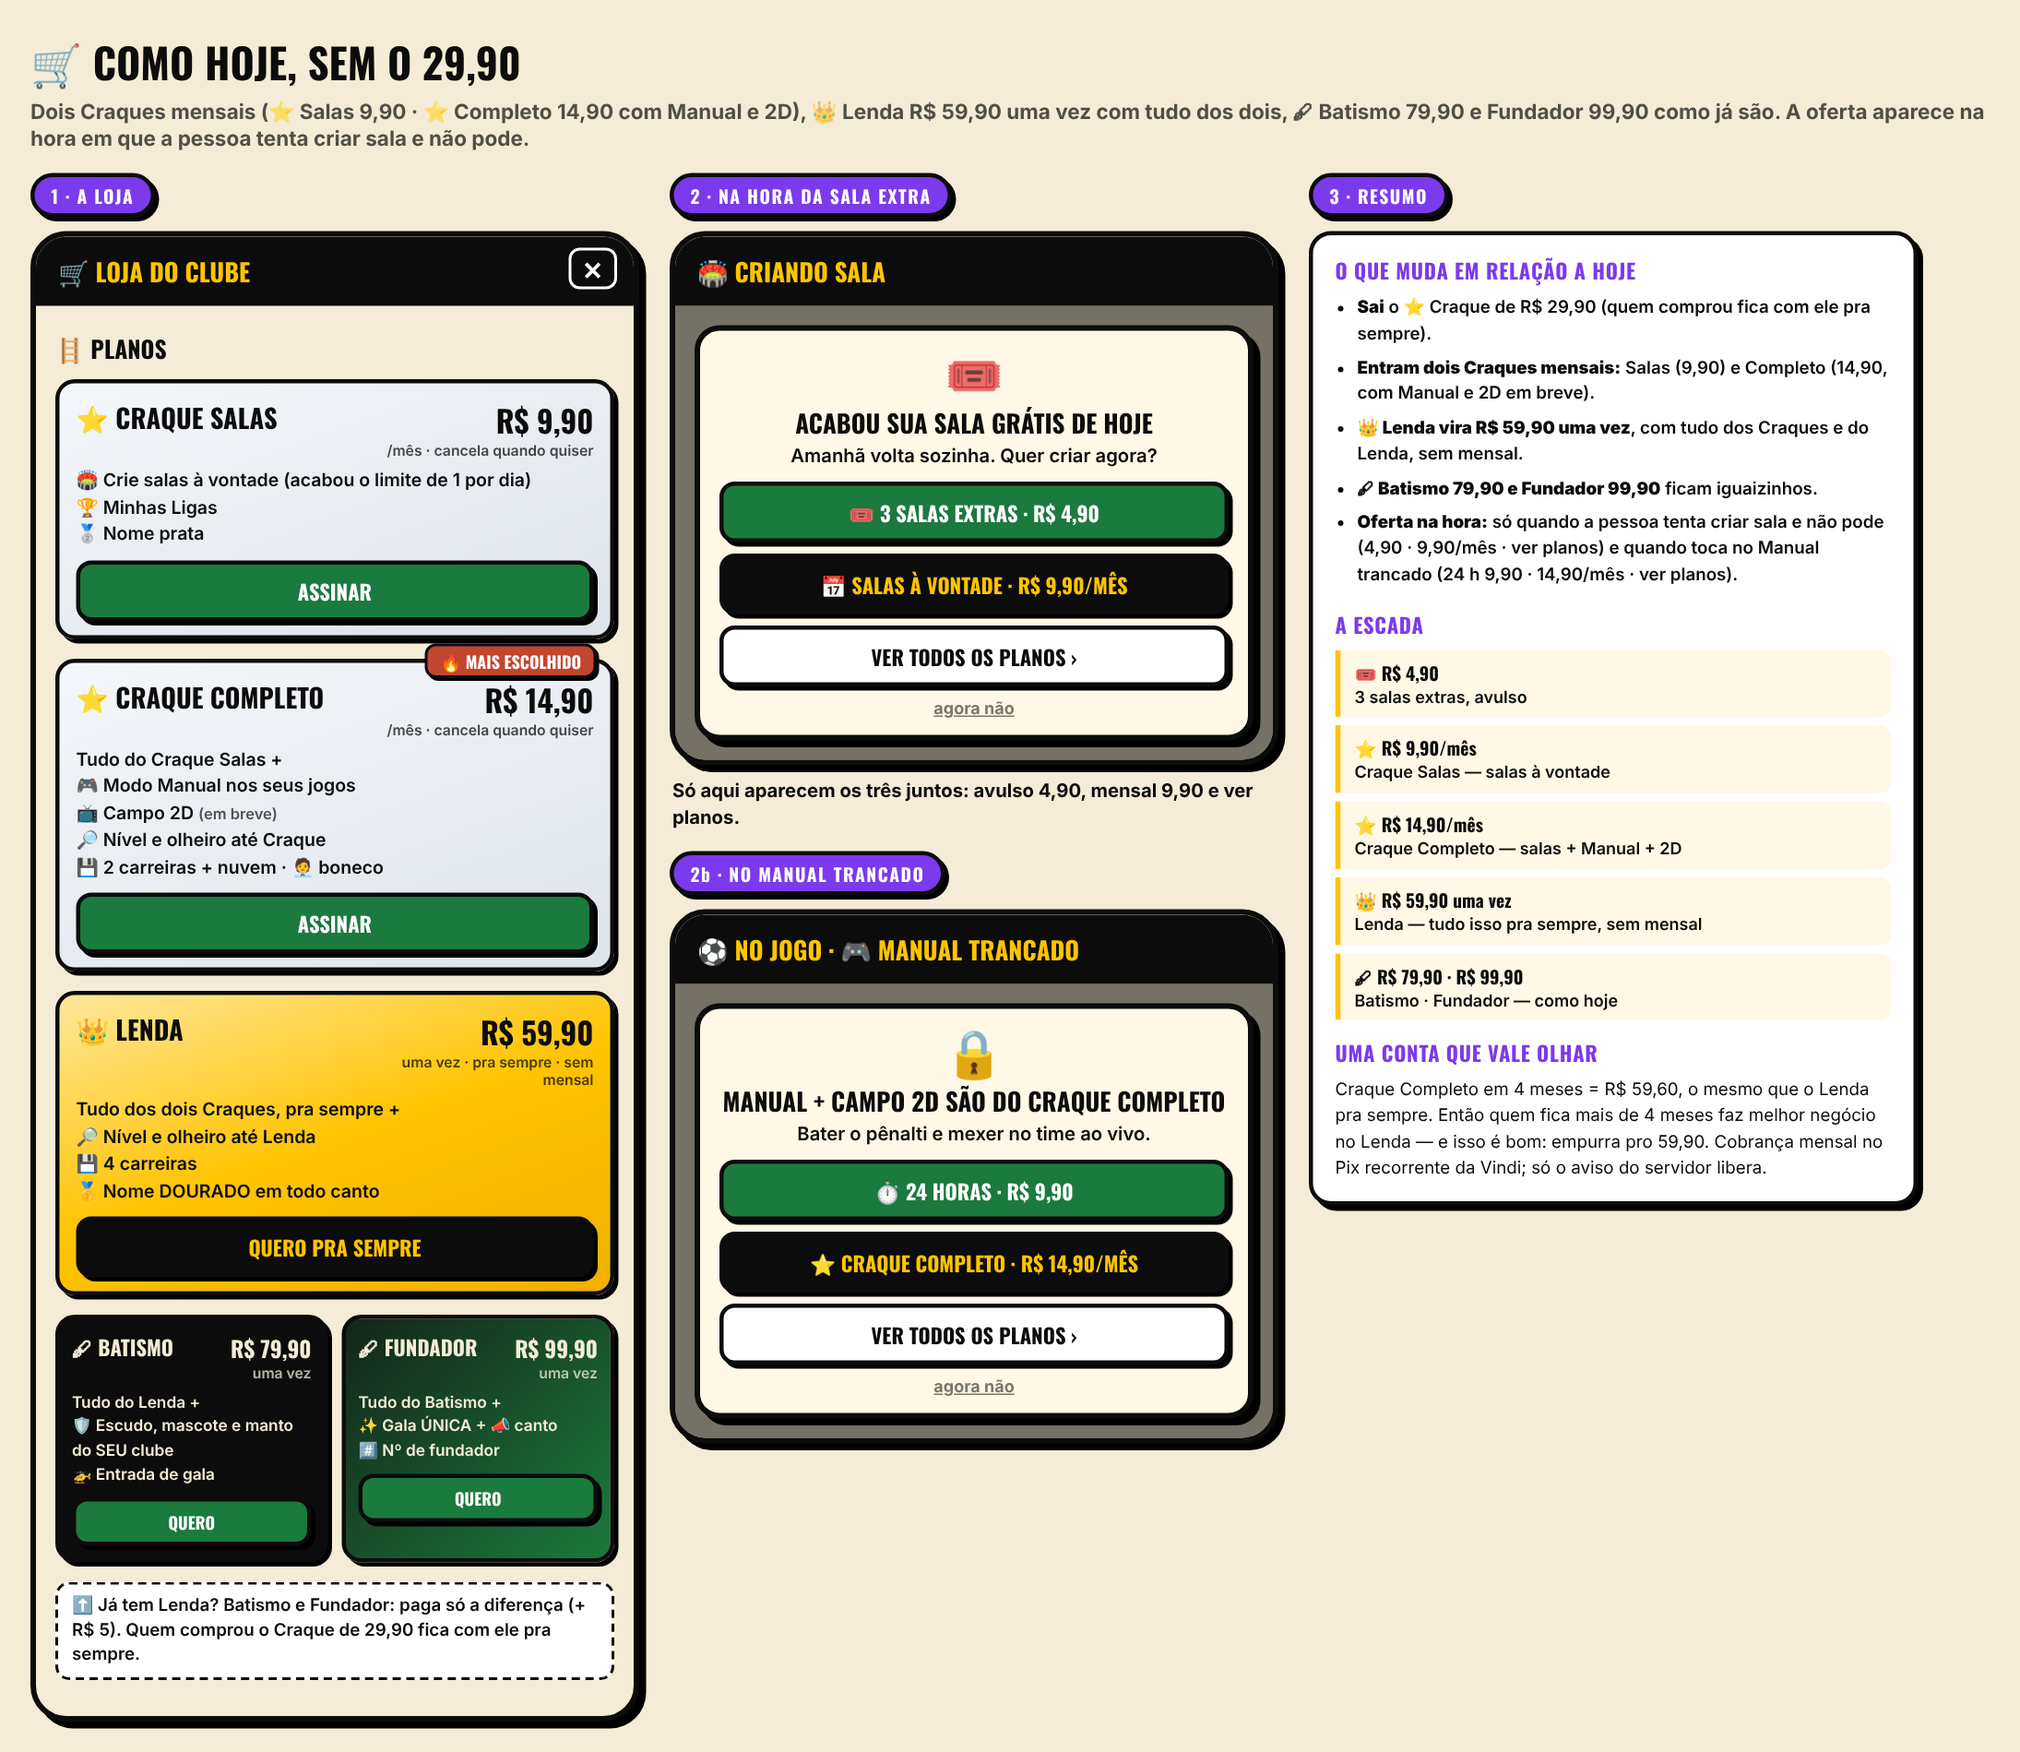
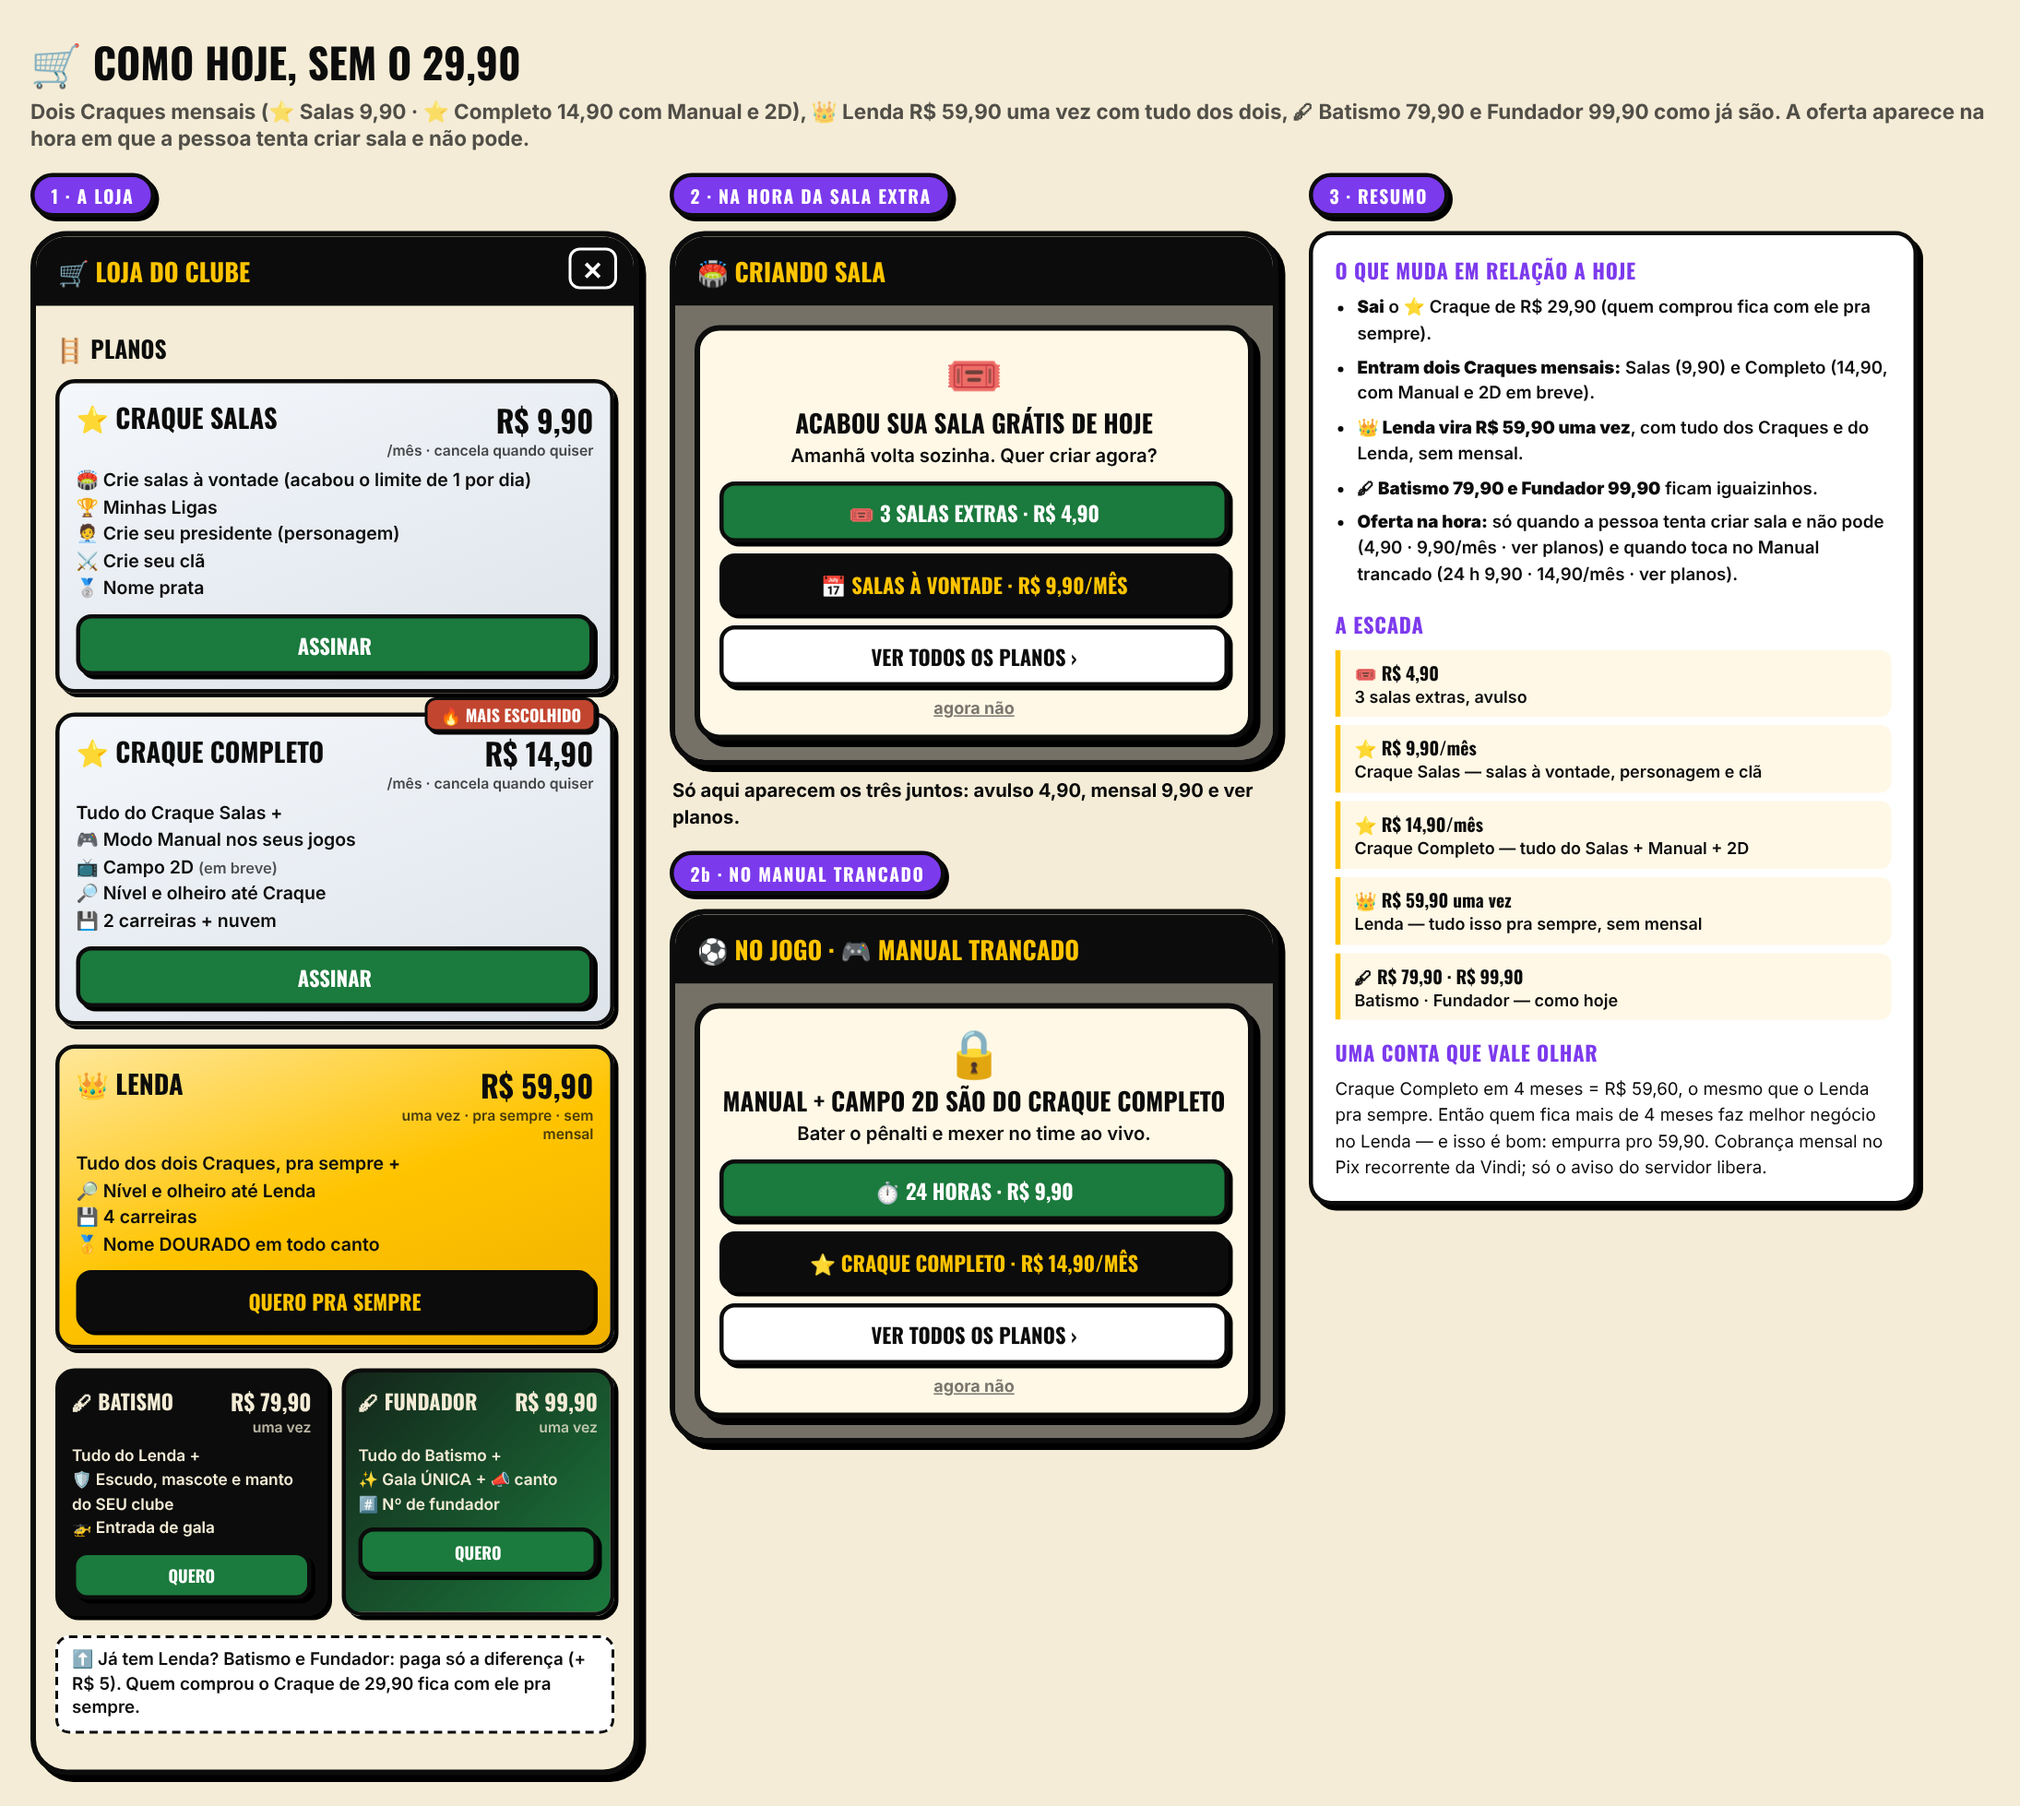
Mockup da loja: criar personagem e criar clã nos dois Craques
Claude-Session: https://claude.ai/code/session_018Ap1zPCMVL9XeZJN3u93ZA

diff --git a/docs/pendencias.md b/docs/pendencias.md
@@ -107,7 +107,7 @@
   (*"deixar como tá hoje mas remover o plano de 29,90… quando o cara for criar sala extra que não pode aparece avulso 4,90 ou mensal
   9,90 ou ver todos os planos… teria também 14,90 pra ter sala extra e botão manual + campo 2D; esses dois seriam planos craques; o
   Lenda seria 59,90 com as coisas do Lenda e do Craque uma vez só; mantenha 79,90 e 99,90"*). Então: SAI o Craque 29,90 (quem tem
-  fica) · ⭐ Craque Salas 9,90/mês (salas à vontade + Minhas Ligas + prata) · ⭐ Craque Completo 14,90/mês (+ Manual + 2D em breve +
+  fica) · ⭐ Craque Salas 9,90/mês (salas à vontade + Minhas Ligas + criar personagem + criar clã + prata — personagem e clã nos DOIS Craques, pedido dele) · ⭐ Craque Completo 14,90/mês (+ Manual + 2D em breve +
   nível até Craque + 2 carreiras + boneco) · 👑 Lenda 59,90 UMA VEZ (tudo dos dois + até Lenda + 4 carreiras + dourado) · Batismo
   79,90 e Fundador 99,90 iguais. Oferta na hora: criar sala sem poder → 4,90 avulso · 9,90/mês · ver planos; Manual trancado →
   14,90/mês · Lenda 59,90 · ver planos. O que vai em cada Craque é proposta minha — ele ajusta.
